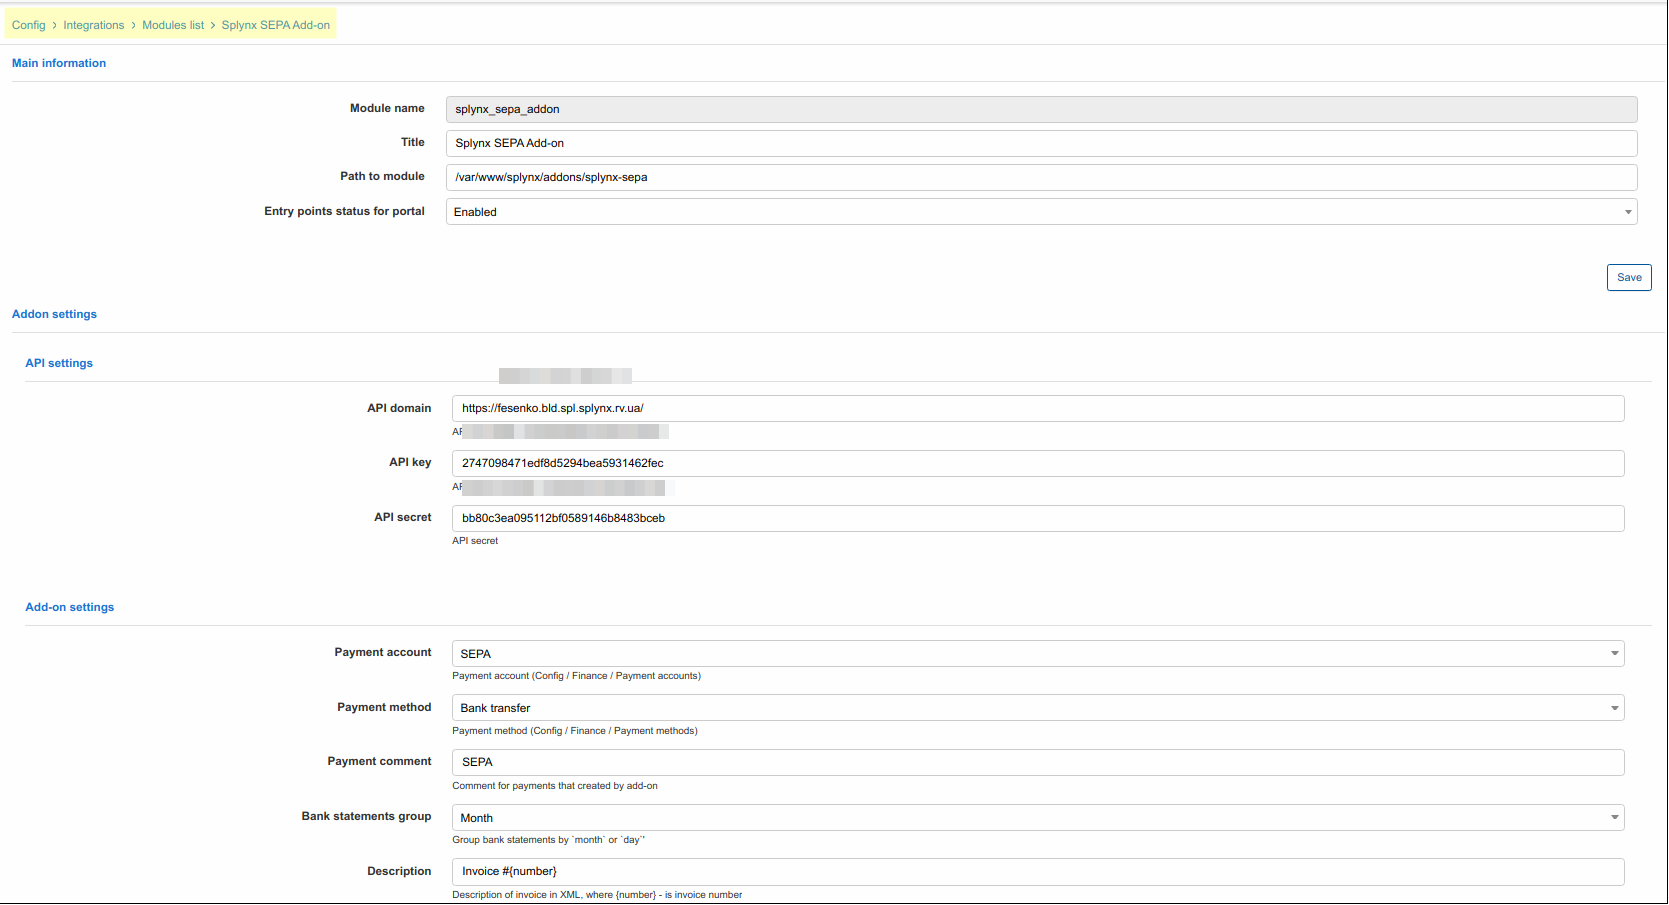
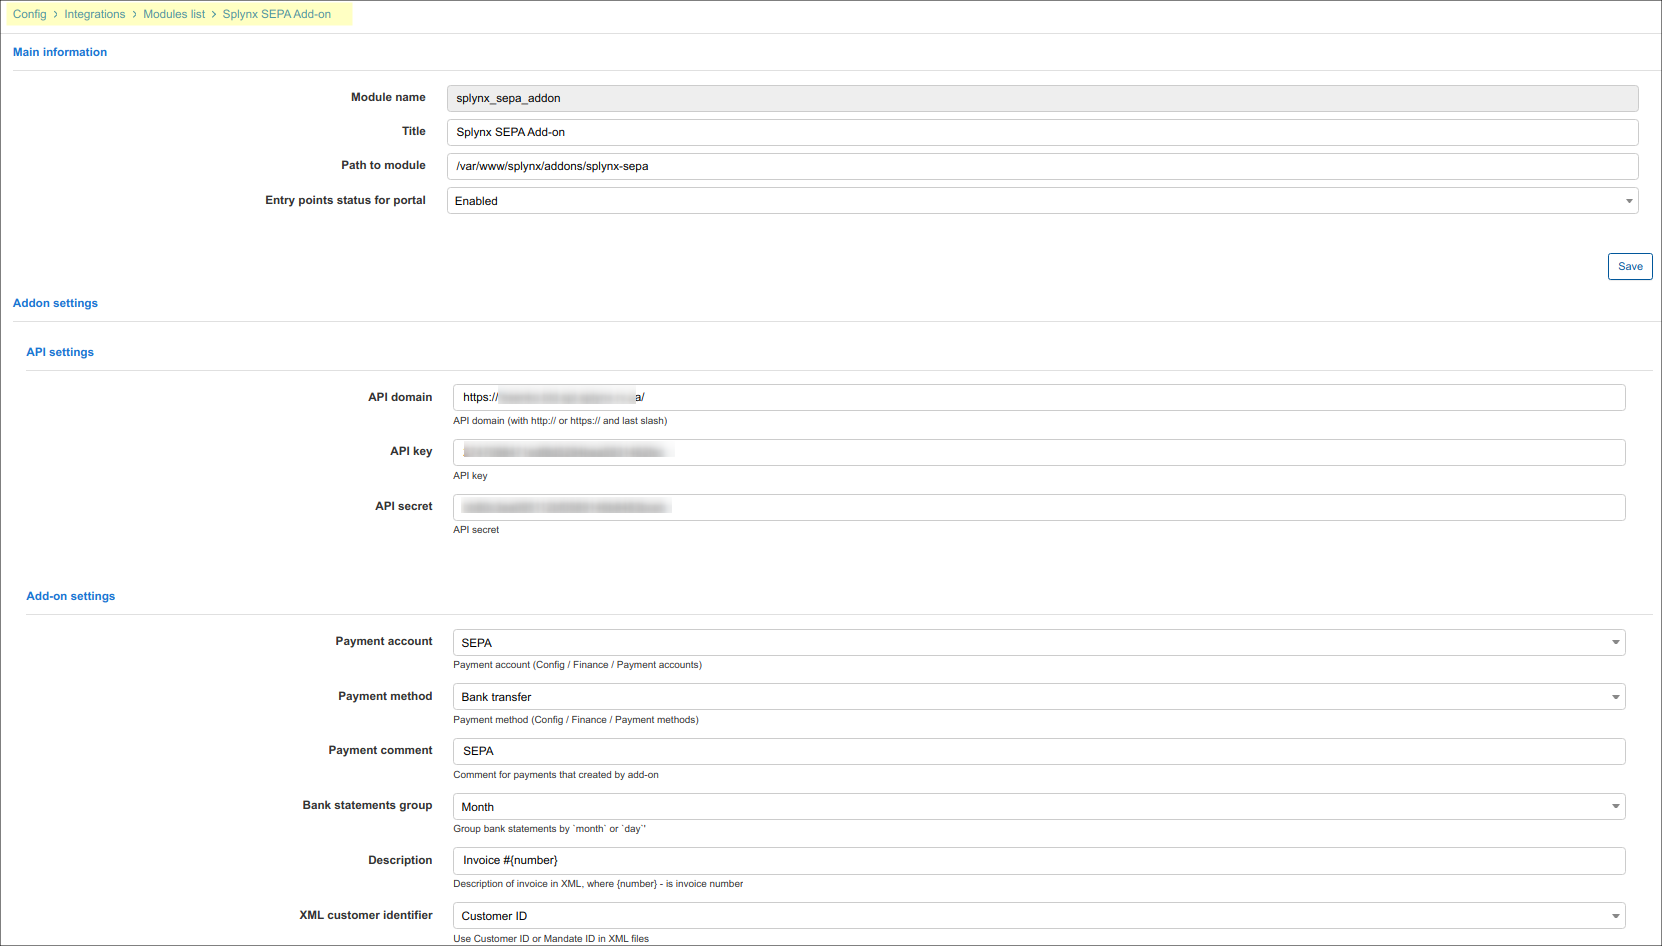
added blur on sensetive info on screens

diff --git a/files/en/payment_systems/sepa/sepa.md b/files/en/payment_systems/sepa/sepa.md
@@ -68,12 +68,12 @@ The handler to choose is SEPA XML returns:
 
 ![SEPA_last.png](SEPA_process.png)
 
-**6\. **SEPA - process of the refund from the bank in case of overpaid**
+**6\. SEPA - process of the refund from the bank in case of overpaid**
 
-If customers have the overpayments, we can provide the money-back. In order to do this, create for particular customers the invoices with negative price value. The status for such invoices will be set to _Paid (from account balance)_. After that in `Finance → Invoices` apply the charge with the following options:
+If customers have the overpayments, we can provide the money-back. In order to do this, create for particular customers the invoices with negative price value. The status for such invoices will be set to _Paid (from account balance)_ automatically. After that in `Finance → Invoices` apply the charge with the following options:
 
 ![charge3.png](charge3.png)
-And download the archive with generated XML file:
+and download the archive with generated XML file:
 ![charge4.png](charge4.png)
 
 When this XML file was sent to bank and you received a response with the new file, upload it back to Splynx with _SEPA XML_ handler:
